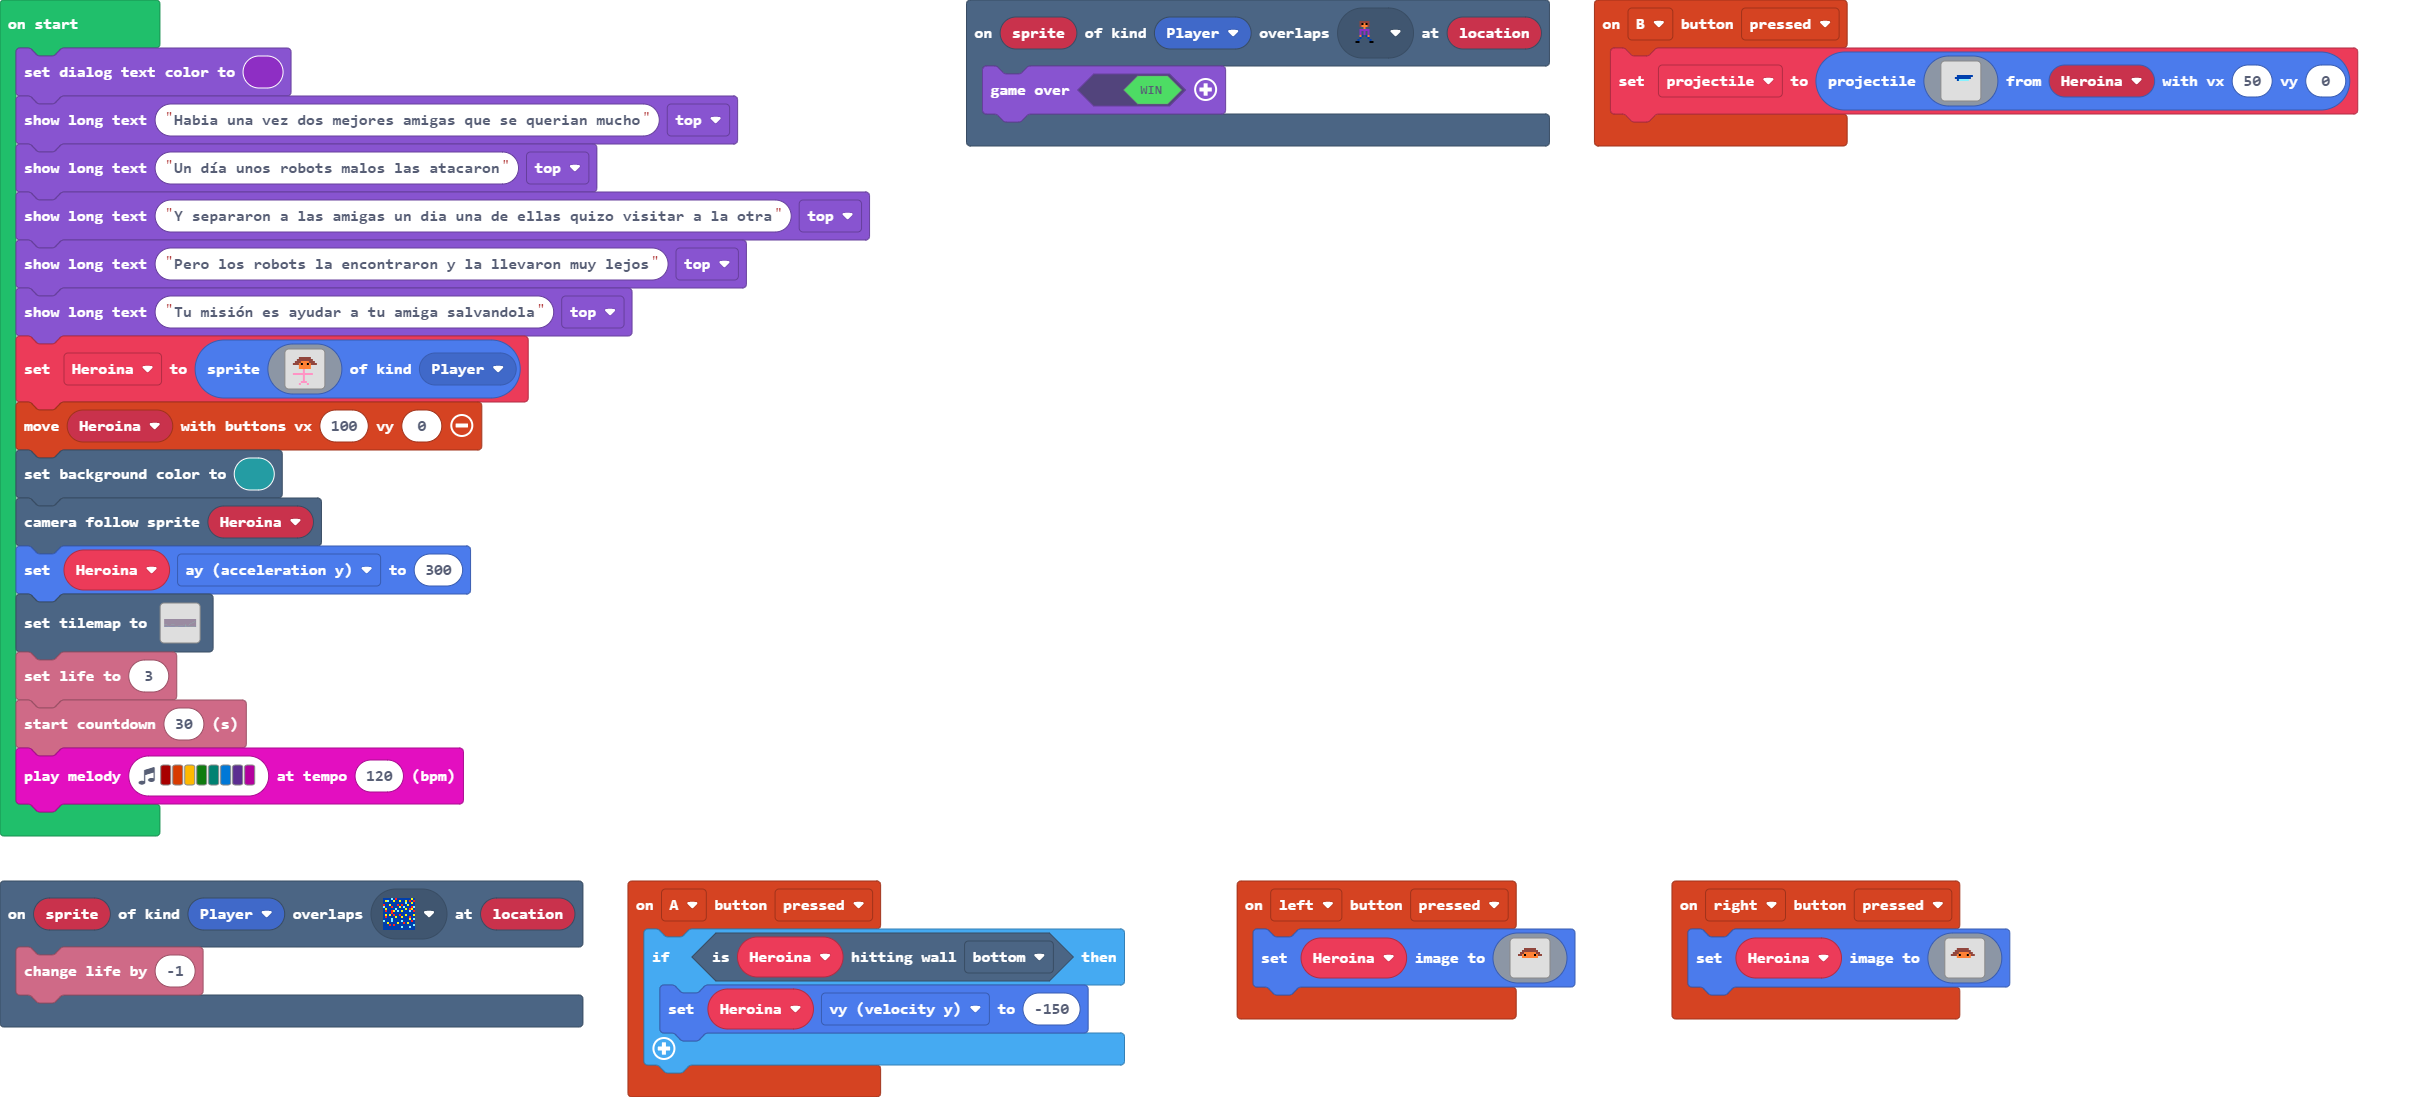
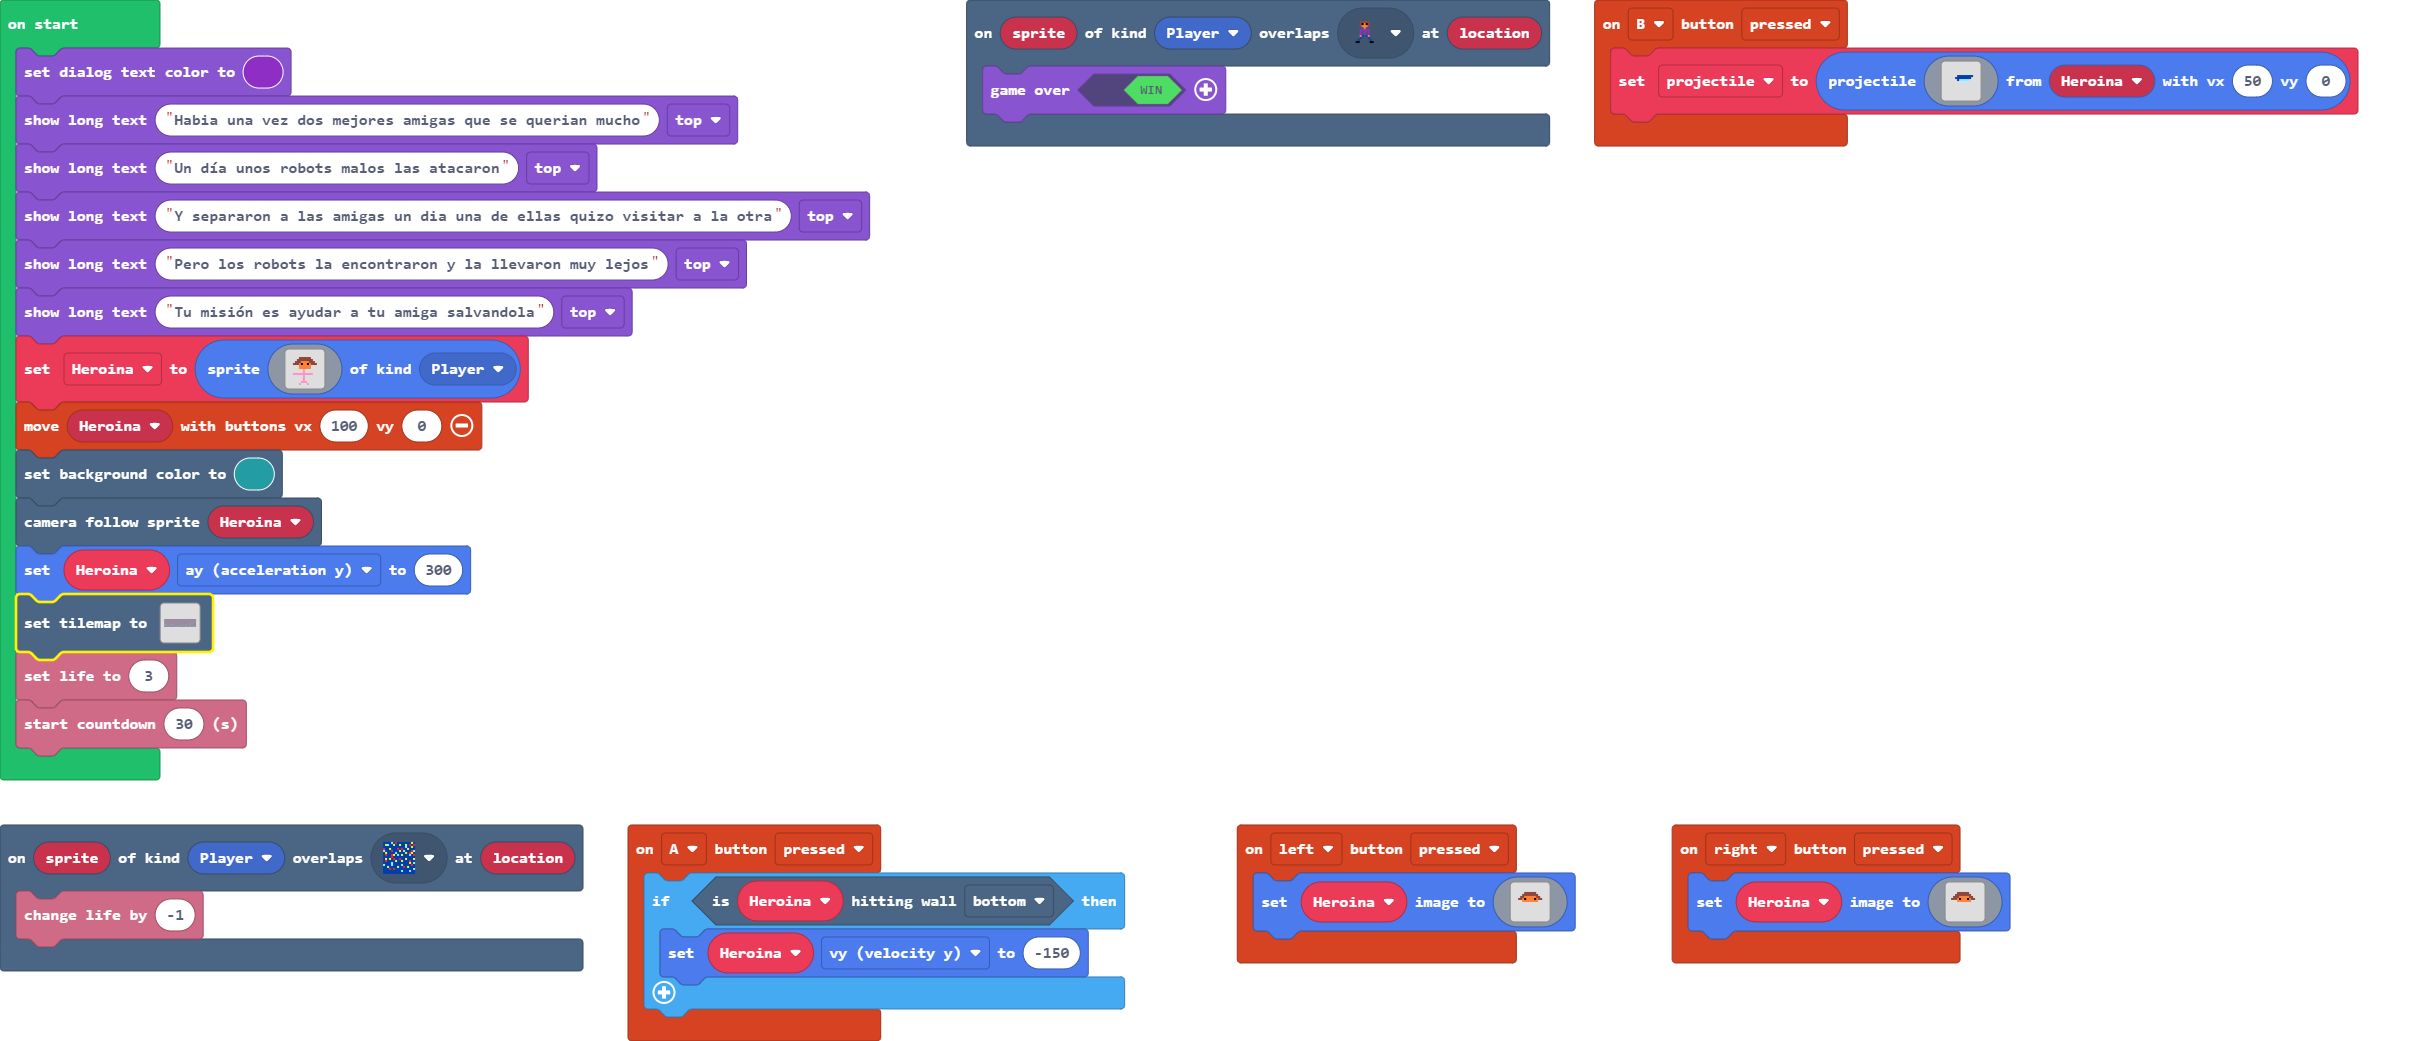
modifique el mapa

diff --git a/main.ts b/main.ts
@@ -102,7 +102,7 @@ controller.moveSprite(Heroina, 100, 0)
 scene.setBackgroundColor(6)
 scene.cameraFollowSprite(Heroina)
 Heroina.ay = 300
-tiles.setTilemap(tiles.createTilemap(hex`4000100004040404040404040404040404040404040404040404040404040404040404040404040404040404040404040404040404040404040404040404040404040404040404040404040404040404040404040404040404040404040404040404040404040404040404040404040404040404040404040404040404040404040404040404040404040404040404040404040404040404040404040404040404040404040404040404040404040404040404040404040404040404040404040404040404040404040404040404040404040404040404040404040404040404040404040404040404040404040404040404040404040404040404040404040404040404040404040404040404040404040404040404040404040404040404040404040404040404040404040404040404040404040404040404040404040404040404020404040404040404040404040404040404040404040404040404040404040404040404040404040404040404040404040404040404040404040404040101010104040404040404040404040404040404040404040404040404040404040404040404040404040404040404040404040404040404040404040404010104040404040404040404040404040404040404040404040404040404040404040404040404040404040404040404040404040404040404040404040401010404040404040404040404040404040404040404040404040404040404040404040404040404040404040404040404040404040404040404040404040101040404040404040404040404040404040404040404040404040404040404040404040404040404040404040404040404040404040404040404040404010104040404040404040404040404040404040404040404040404040404040404040404040404040404040404040404040404010404040404040404040404010404040404040404040404040101010101010404040404040404010101010101010404040404040404040404040404040404040404040101040404040404010104040404040404040404040404040404040404040404040401040404040404040404040404040404040404040404040404010404040401010404040404010404040404040404040404040404040404040404010404040404040404040404040404040404040404040104010404010401040404040404010104040404040404040404040404040404040404040404040404040404040104040404040404040404040404040404040404040404040404040404040404040101040404040404040404040404040404040404040403030303030303030303030303030303030303030303010101010101030303030303030303030303030301010101010301030301010101010101010101010303`, img`
+tiles.setTilemap(tiles.createTilemap(hex`4000100004040404040404040404040404040404040404040404040404040404040404040404040404040404040404040404040404040404040404040404040404040404040404040404040404040404040404040404040404040404040404040404040404040404040404040404040404040404040404040404040404040404040404040404040404040404040404040404040404040404040404040404040404040404040404040404040404040404040404040404040404040404040404040404040404040404040404040404040404040404040404040404040404040404040404040404040404040404040404040404040404040404040404040404040404040404040404040404040404040404040404040404040404040404040404040404040404040404040404040404040404040404040404040404040404040404040404020404040404040404040404040404040404040404040404040404040404040404040404040404040404040404040404040404040404040404040404040101010104040404040404040404040404040404040404040404040404040404040404040404040404040404040404040404040404040404040404040404010104040404040404040404040404040404040404040404040404040404040404040404040404040404040404040404040404040404040404040404040401010404040404040404040404040404040404040404040404040404040404040404040404040404040404040404040404040404040404040404040404040101040404040404040404040404040404040404040404040404040404040404040404040404040404040404040404040404040404040404040404040404010104040404040404040404040404040404040404040404040404040404040404040404040404040404040404040404040404010404040404040404040404010404040404040404040404040101010101010404040404040404010101010101010404040404040404040404040404040404040404040101040404040404010104040404040404040404040404040404040404040404040401040404040404040404040404040404040404040404040404010404040401010404040404010404040404040404040404040404040404040404010404040404040404040404040404040404040404040104010404010401040404040404010104040404010404040404040404040404040404040404040404040404040104040404040404040404040404040404040404040404040404040404040404040101040404040104040404040404040404040404040403030303030303030303030303030303030303030303010101010101030303030303030303030303030301010101010301030301010101010101010101010303`, img`
     . . . . . . . . . . . . . . . . . . . . . . . . . . . . . . . . . . . . . . . . . . . . . . . . . . . . . . . . . . . . . . . . 
     . . . . . . . . . . . . . . . . . . . . . . . . . . . . . . . . . . . . . . . . . . . . . . . . . . . . . . . . . . . . . . . . 
     . . . . . . . . . . . . . . . . . . . . . . . . . . . . . . . . . . . . . . . . . . . . . . . . . . . . . . . . . . . . . . . . 
@@ -116,10 +116,9 @@ tiles.setTilemap(tiles.createTilemap(hex`400010000404040404040404040404040404040
     . . . . . . . . . . . . . . . . . . . . . . . . . . . . . . . . . . . . . . . 2 . . . . . . . . . . . 2 . . . . . . . . . . . . 
     2 2 2 2 2 2 . . . . . . . . 2 2 2 2 2 2 2 . . . . . . . . . . . . . . . . . . . . . 2 2 . . . . . . 2 2 . . . . . . . . . . . . 
     . . . . . . . . . . . . 2 . . . . . . . . . . . . . . . . . . . . . . . . 2 . . . . 2 2 . . . . . 2 . . . . . . . . . . . . . . 
-    . . . . . . 2 . . . . . . . . . . . . . . . . . . . . . 2 . 2 . . 2 . 2 . . . . . . 2 2 . . . . . . . . . . . . . . . . . . . . 
-    . . . . . . . . . 2 . . . . . . . . . . . . . . . . . . . . 2 . . . . . . . . . . . 2 2 . . . . . . . . . . . . . . . . . . . . 
+    . . . . . . 2 . . . . . . . . . . . . . . . . . . . . . 2 . 2 . . 2 . 2 . . . . . . 2 2 . . . . 2 . . . . . . . . . . . . . . . 
+    . . . . . . . . . 2 . . . . . . . . . . . . . . . . . . . . 2 . . . . . . . . . . . 2 2 . . . . 2 . . . . . . . . . . . . . . . 
     . . . . . . . . . . . . . . . . . . . . . . 2 2 2 2 2 2 . . . . . . . . . . . . . . 2 2 2 2 2 . 2 . . 2 2 2 2 2 2 2 2 2 2 2 . . 
     `, [myTiles.transparency16,sprites.dungeon.greenOuterNorth0,myTiles.tile3,myTiles.tile4,myTiles.tile5], TileScale.Sixteen))
 info.setLife(3)
 info.startCountdown(30)
-music.playMelody("C5 B A G F E D C ", 120)
